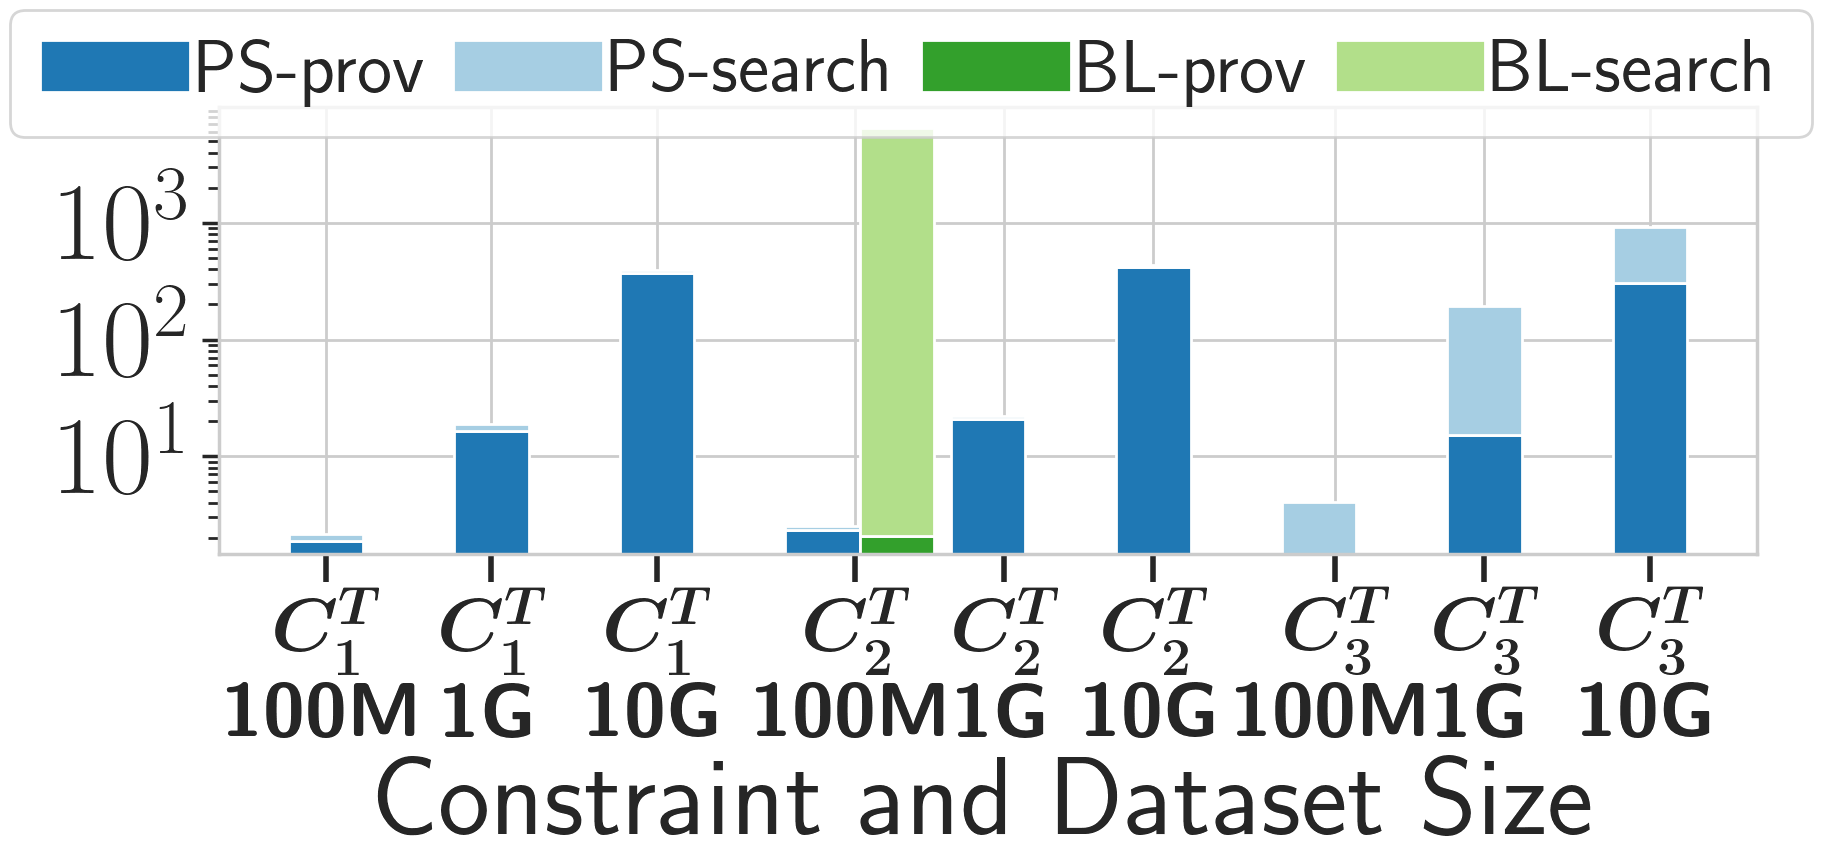
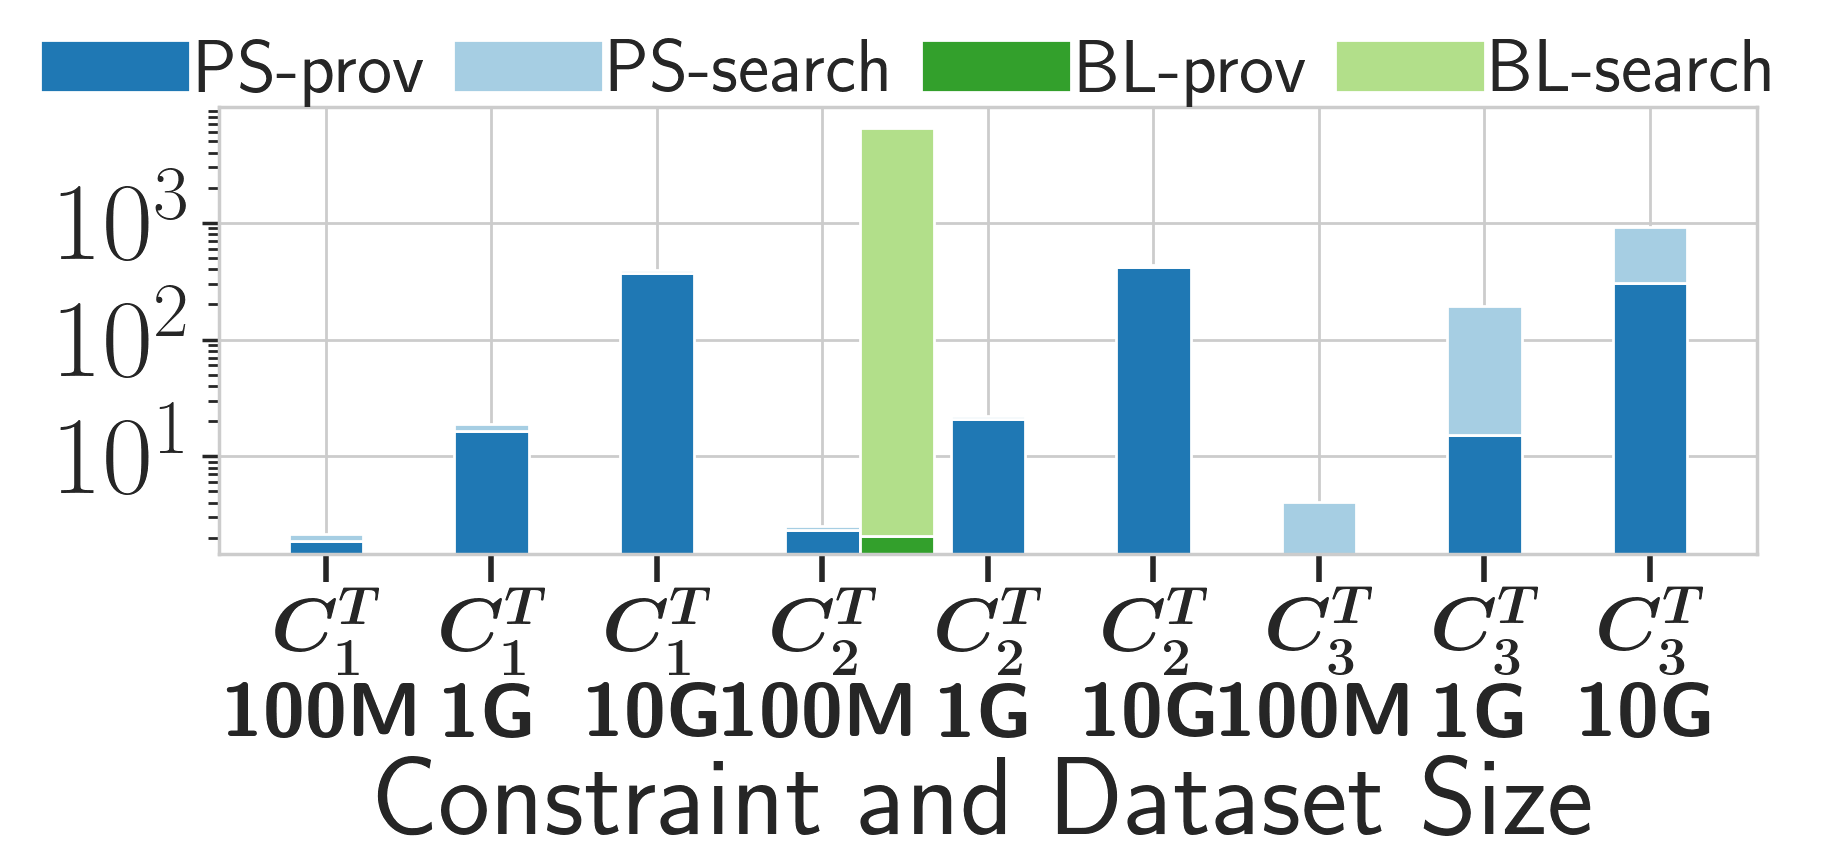
fig

diff --git a/Experiment/TPCH/running_time/fig.py b/Experiment/TPCH/running_time/fig.py
@@ -65,9 +65,9 @@ def run(q):
     plt.bar(index, execution_timeps1, bar_width, color=color[0], label=label[0])
     plt.bar(index, execution_timeps2, bar_width, bottom=execution_timeps1,
             color=color[1], label=label[1])
-    # plt.bar(index + bar_width, execution_timebl1, bar_width, color=color[2], label=label[2])
-    # plt.bar(index + bar_width, execution_timebl2, bar_width, bottom=execution_timebl1,
-    #         color=color[3], label=label[3])
+    plt.bar(index + bar_width, execution_timebl1, bar_width, color=color[2], label=label[2])
+    plt.bar(index + bar_width, execution_timebl2, bar_width, bottom=execution_timebl1,
+            color=color[3], label=label[3])
 
     # x_list = [r"\boldmath$C^T_1$\n\textbf{100M}",
     #           '$C^T_1$\n1G', '$C^T_1$\n10G', '$C^T_2$\n100M', '$C^T_2$\n1G', '$C^T_2$\n10G',
@@ -80,12 +80,10 @@ def run(q):
     plt.yticks(fontsize=80, weight='bold')
     plt.yscale('log')
     plt.xlabel(r'Constraint and Dataset Size', fontsize=80, weight='bold')
-    # plt.legend(loc='upper center', bbox_to_anchor=(0.5, 1.4), fontsize=50, ncol=2, labelspacing=0.25,
-    #            handletextpad=0.1, markerscale=0.5, columnspacing=0.3, frameon=False)
-
-    lgnd = plt.legend(loc='upper center', bbox_to_anchor=(0.45, 1.3), fontsize=54, ncol=4, labelspacing=0.25,
-                      handletextpad=0.1, markerscale=0.5, columnspacing=0.3, frameon=False)
-
+    # plt.legend(loc='upper center', bbox_to_anchor=(0.45, 1.3), fontsize=54, ncol=4, labelspacing=0.3,
+    #                   handletextpad=0.1, markerscale=0.2, columnspacing=0.3, frameon=False)
+    plt.legend(loc='upper center', bbox_to_anchor=(0.45, 1.3), fontsize=54, ncol=4, labelspacing=0.3,
+               handletextpad=0.1, markerscale=0.2, columnspacing=0.3, frameon=False)
     plt.tight_layout()
     fig_path = "running_time_" + str(q) + ".png"
 
@@ -93,4 +91,4 @@ def run(q):
     plt.show()
 
 
-run(12)
+run(3)
